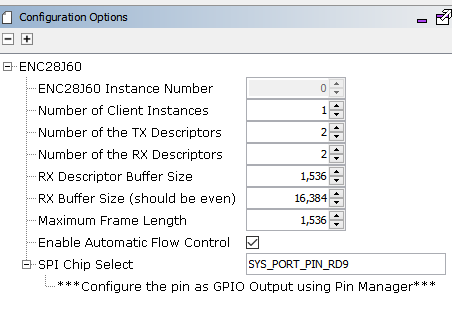
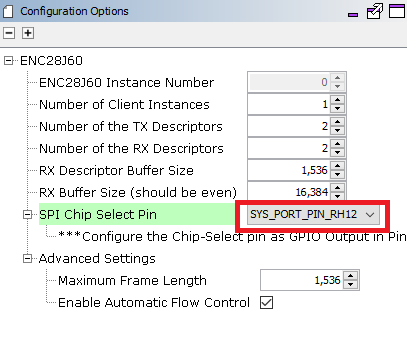
[MH3-54940] Document update for tcpip_tcp_server ENC28j60 demo with Freertos

diff --git a/apps/tcpip_tcp_server/docs/readme_run_application.md b/apps/tcpip_tcp_server/docs/readme_run_application.md
@@ -18,6 +18,7 @@ This table list the name and location of the MPLAB X IDE project folder for the 
 |pic32mz_ef_sk.X | PIC32MZ2048EFH144 | PIC32MZ EF Starter Kit | Demonstrates the TCP/IP TCP Server on development board with PIC32MZ2048EFH144 device and LAN8740 PHY daughter board. This implementation is based on without FreeRTOS. |
 |pic32mz_ef_sk_freertos.X | PIC32MZ2048EFH144 | PIC32MZ EF Starter Kit | Demonstrates the TCP/IP TCP Server on development board with PIC32MZ2048EFH144 device and LAN8740 PHY daughter board. This implementation is based on FreeRTOS. |
 |pic32mz_ef_sk_enc28j60.X | PIC32MZ2048EFH144 | PIC32MZ EF Starter Kit + External Ethernet Pictail Controller  ENC28j60 + I/O Expansion Board  | Demonstrates the TCP/IP TCP Server on development board with PIC32MZ2048EFH144 device and external Ethernet controller ENC28J60. This is a bare-metal (non-RTOS) implementation  |
+|pic32mz_ef_sk_enc28j60_freertos.X | PIC32MZ2048EFH144 | PIC32MZ EF Starter Kit + External Ethernet Pictail Controller  ENC28j60 + I/O Expansion Board  | Demonstrates the TCP/IP TCP Server on development board with PIC32MZ2048EFH144 device and external Ethernet controller ENC28J60. This is with FreeRTOS  implementation  |
 |pic32mz_ef_sk_encx24j600.X | PIC32MZ2048EFH144 | PIC32MZ EF Starter Kit + External Ethernet Pictail Controller  ENCx24j600 + I/O Expansion Board  | Demonstrates the TCP/IP TCP Server on development board with PIC32MZ2048EFH144 device and external Ethernet controller ENCx24j600. This is a bare-metal (non-RTOS) implementation  |
 |pic32mz_da_sk.X | PIC32MZ2064DAS169 | PIC32MZ DA Starter Kit | Demonstrates the TCP/IP TCP Server on development board with PIC32MZ2064DAS169 device and LAN8740 PHY daughter board. This implementation is based on without FreeRTOS. |
 |pic32mz_da_sk_freertos.X | PIC32MZ2064DAS169 | PIC32MZ DA Starter Kit | Demonstrates the TCP/IP TCP Server on development board with PIC32MZ2064DAS169 device and LAN8740 PHY daughter board. This implementation is based on FreeRTOS. |

diff --git a/apps/tcpip_tcp_server/docs/readme_hardware_configuration.md b/apps/tcpip_tcp_server/docs/readme_hardware_configuration.md
@@ -52,15 +52,19 @@ This is the following section describes the hardware configurations and one of t
 
     The PIC32MZ Embedded Connectivity with FPU (EF) Starter Kit is connected to J1 on the Starter Kit I/O Expansion board.
 
-    The pin 46 on J10 and pin 47 on J11 (on I/O Expansion board) need to be connected to control the Chip-Select line by the PIC32.
+    The pin 46 on J10 and pin 47 on J11 (on I/O Expansion board) need to be connected to control the Chip-Select ( GPIO RE9 configuration ) line by the PIC32.
 
     To power the set-up, connect the micro USB cable from the computer to the micro-A/B port J4 on the PIC32MZ EF Starter Kit
 
     For serial console, connect the mini USB cable from the computer to the USB-UART connector on the PIC32MZ EF Starter Kit
 
-    Please refer to the following figure for more detail.
+    Please refer to the following figure for GPIO PIN RE9.
 
     ![required_enc28j60_setup](images/PIC32MZ_ENC28J60.png)
+
+    Please refer to the following figure for GPIO PIN RH12 ( without Jumper).
+
+    ![required_enc28j60_setup](images/PIC32MZ_ENC28J60_RH12.png)
 
 
 4. This section describes PIC32MZ EF device hardware configuration for **external Ethernet controller ENC624J600** with PIC32MZ2048EFH144 development board.

diff --git a/apps/tcpip_tcp_server/docs/readme_mhc_configuration.md b/apps/tcpip_tcp_server/docs/readme_mhc_configuration.md
@@ -67,12 +67,18 @@ The following Project Graph diagram shows the Harmony components included in the
         TCP/IP ENC28j60 driver module selected for the external ethernet  mac ENC28j60 device. For high MAC TX and RX performance DRV_ENC28j60_MAC_TX_DESCRIPTORS and DRV_ENC28j60_MAC_RX_DESCRIPTORS can be configured respectively more than the default descriptor value size "2".
         ![tcpip_pic32mzef_project](images/tcpip_tcp_demo_enc28j60_driver.png)
 
+        GPIO RH12 pin is configured for SPI chip select.
+
         ![tcpip_pic32mz_project](images/tcpip_tcp_demo_enc28j60_driver_config.png)
+        
+
 
     3. **External ENCX24j600 ethernet driver**
 
         TCP/IP ENCx24j600 driver module selected for the external ethernet  mac ENC28j60 device. For high MAC TX and RX performance DRV_ENCX24j600_MAC_TX_DESCRIPTORS and DRV_ENCX24j600_MAC_RX_DESCRIPTORS can be configured respectively more than the default descriptor value size "2".
 
         ![tcpip_pic32mz_project](images/tcpip_tcp_demo_encx24j600_driver.png)
+
+        GPIO RE9 pin is configured for SPI chip select.
 
         ![tcpip_pic32mz_project](images/tcpip_tcp_demo_enc624j600_driver_config.png)
